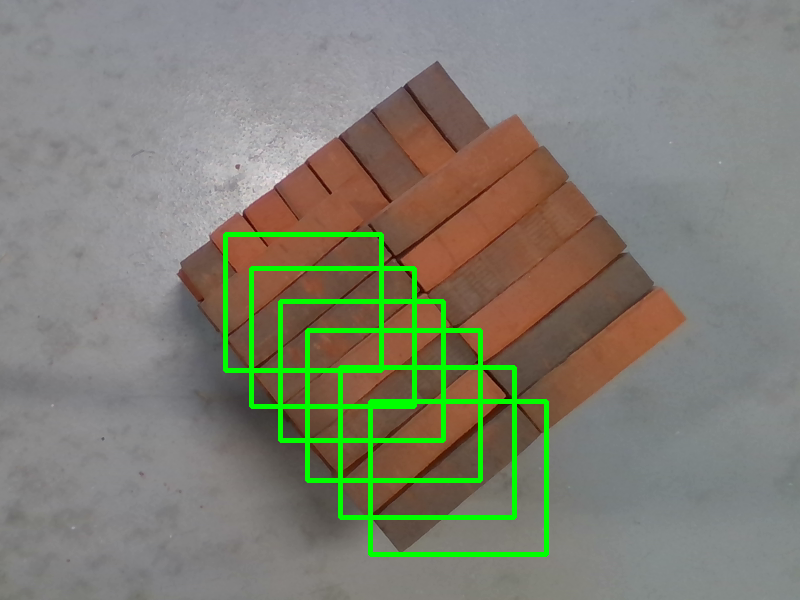
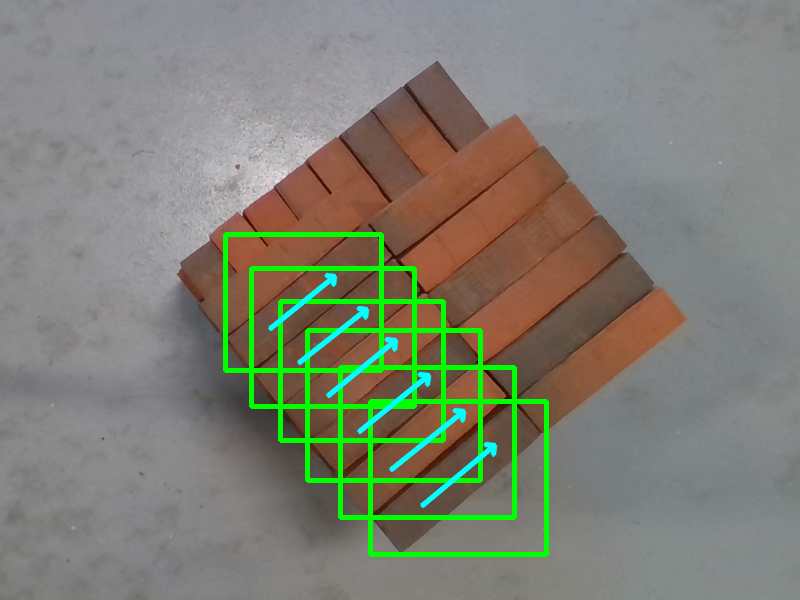
chamfer_detection_result main.cpp updated

diff --git a/01 Classic Vision/hough_detection_results/main.cpp b/01 Classic Vision/hough_detection_results/main.cpp
@@ -15,6 +15,17 @@ string file_name =  "OP_colorIMG_185";
 //string path = "../../03 Data/Simple Dataset Copied/" ;
 //string file_name =  "colorIMG_159";
 
+void print_angle_predictions(cv::Mat& img, bounding_box BB, int line_width, cv::Scalar color = cv::Scalar(255, 255, 0))
+{
+    double w = BB.rotated_rect.size.width;
+    double h = BB.rotated_rect.size.height;
+    double angle = BB.rotated_rect.angle;
+    cv::Point2d pt1 = BB.rotated_rect.center + cv::Point2f(w/2.0*sin((angle+90)*CV_PI/180)*0.5, -w/2.0*cos((angle+90)*CV_PI/180)*0.5);
+    cv::Point2d pt2 = BB.rotated_rect.center -  cv::Point2f(w/2.0*sin((angle+90)*CV_PI/180)*0.5, -w/2.0*cos((angle+90)*CV_PI/180)*0.5);
+
+    cv::arrowedLine(img, pt2, pt1, color, line_width, CV_AA);
+}
+
 void draw_rot_rect(cv::Mat& img, cv::RotatedRect rot_rect, cv::Scalar color, int line_width)
 {
     cv::Point2f rect_points[4];
@@ -140,6 +151,14 @@ int main()
        std::cout << TP[i] << std::endl;
    }
 
+   for(int i = 0; i < preds.size(); i++)
+   {
+       if(std::find(TP.begin(), TP.end(), i) != TP.end())
+       {
+           print_angle_predictions(img_axis_aligned, preds[i], 3);
+       }
+       std::cout << TP[i] << std::endl;
+   }
    // Evaluate OP dataset non-axis aligned bounding boxes
    TP.clear();
    match_annotations(preds, rect_list, TP, 0.5, 1);
@@ -150,10 +169,12 @@ int main()
        if(std::find(TP.begin(), TP.end(), i) != TP.end())
        {
            draw_rot_rect(img_axis_non_aligned, preds[i].rotated_rect, cv::Scalar(0, 255, 0), 3); //simple width - 2 OP - 3
+           print_angle_predictions(img_axis_non_aligned, preds[i], 2);
        }
        else
        {
            draw_rot_rect(img_axis_non_aligned, preds[i].rotated_rect, cv::Scalar(0, 0, 255), 4);  //simple width - 3 OP - 4
+           //print_angle_predictions(img_axis_non_aligned, preds[i], 2);
        }
 
        std::cout << TP[i] << std::endl;

diff --git a/01 Classic Vision/chamfer_detection_result/main.cpp b/01 Classic Vision/chamfer_detection_result/main.cpp
@@ -15,6 +15,18 @@ using namespace std;
 string path = "../../03 Data/Simple Dataset Copied/" ;
 string file_name =  "colorIMG_159";
 
+void print_angle_predictions(cv::Mat& img, bounding_box BB, int line_width, cv::Scalar color = cv::Scalar(255, 255, 0))
+{
+    double w = BB.rotated_rect.size.width;
+    double h = BB.rotated_rect.size.height;
+    double angle = BB.rotated_rect.angle;
+    cv::Point2d pt1 = BB.rotated_rect.center + cv::Point2f(w/2.0*sin((angle+90)*CV_PI/180)*0.5, -w/2.0*cos((angle+90)*CV_PI/180)*0.5);
+    cv::Point2d pt2 = BB.rotated_rect.center -  cv::Point2f(w/2.0*sin((angle+90)*CV_PI/180)*0.5, -w/2.0*cos((angle+90)*CV_PI/180)*0.5);
+
+    cv::arrowedLine(img, pt2, pt1, color, line_width, CV_AA);
+}
+
+
 void draw_rot_rect(cv::Mat& img, cv::RotatedRect rot_rect, cv::Scalar color, int line_width)
 {
     cv::Point2f rect_points[4];
@@ -140,6 +152,15 @@ int main()
        std::cout << TP[i] << std::endl;
    }
 
+   for(int i = 0; i < preds.size(); i++)
+   {
+       if(std::find(TP.begin(), TP.end(), i) != TP.end())
+       {
+           print_angle_predictions(img_axis_aligned, preds[i], 3);
+       }
+       std::cout << TP[i] << std::endl;
+   }
+
    // Evaluate OP dataset non-axis aligned bounding boxes
    TP.clear();
    match_annotations(preds, rect_list, TP, 0.5, 1);
@@ -150,6 +171,7 @@ int main()
        if(std::find(TP.begin(), TP.end(), i) != TP.end())
        {
            draw_rot_rect(img_axis_non_aligned, preds[i].rotated_rect, cv::Scalar(0, 255, 0), 2); //simple width - 2 OP - 3
+           print_angle_predictions(img_axis_non_aligned, preds[i], 3);
        }
        else
        {
